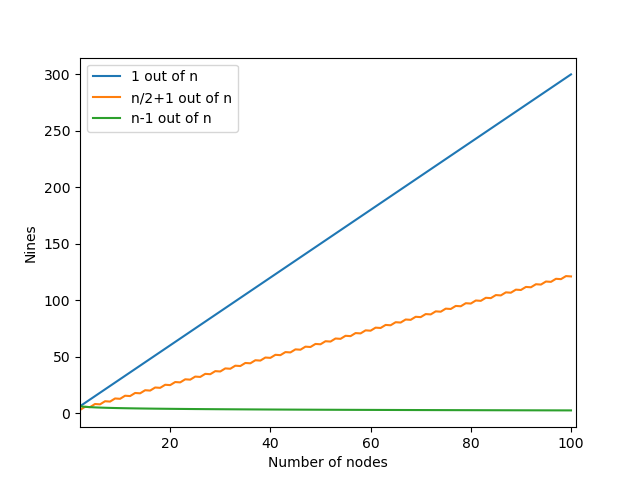
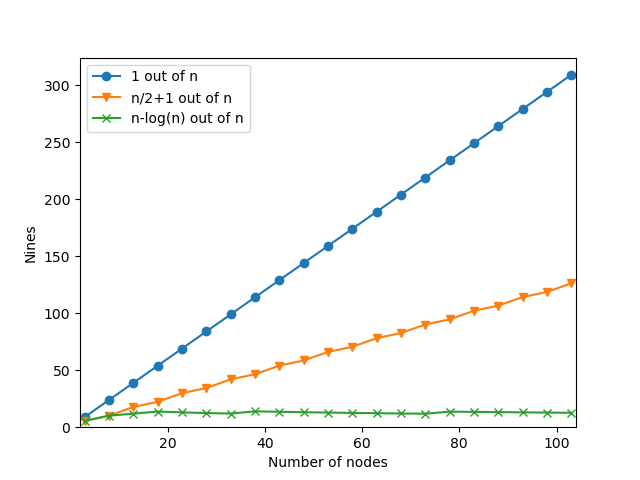
Linear n-log(n) line added

diff --git a/functions.py b/functions.py
@@ -7,8 +7,9 @@ import operator as op
 from functools import reduce
 
 
-MINN=500
-MAXN=700
+MINN=3
+MAXN=100
+STEP=5
 
 def nck(n, k): #Fast C implementation
     r = min(k, n-k)
@@ -22,6 +23,16 @@ def reliability(m,n,rate=0.001):
         return 1-binom.cdf(m-1,n,p)
     return f
 
+def availability(g,lam=0.001,mu=1.0):
+    r=lam/mu
+    def f(n):
+        good_sum=0.0
+        for i in range(0,n-g(n)+1):
+            good_sum+=pow(r,i)*nck(n,i)
+        good_sum/=pow(r+1,n)
+        return good_sum
+    return f
+
 def log_availability(g,lam=0.001,mu=1.0):
     r=lam/mu
     def f(n): #Calculates the steady-state availability of a g(n) out of n system, returns it in the nines (-log10(1-x)) metric
@@ -33,62 +44,20 @@ def log_availability(g,lam=0.001,mu=1.0):
         return -bad_sum
     return f
 
-def find_linear():
-    candidates=[]
-    def make_minus(i):
-        def f(n):
-            return max(math.floor(n/2)+1,n-i)
-        return f
-    def make_prop(c):
-        def f(n):
-            return max(math.floor(n/2)+1,math.ceil(c*n))
-        return f
-    def make_log():
-        def f(n):
-            return max(math.floor(n/2)+1,math.ceil(n-math.log(n)))
-        return f
-
-    for i in range(1,51):
-        #candidates.append([make_minus(i),f"n-{i} out of n"])
-        pass
-    for c in np.linspace(0.9,1.0,10)[:-1]:
-        #candidates.append([make_prop(c),f"{c}*n out of n"])
-        pass
-    candidates.append([make_log(),f"n-log(n) out of n"])
-
-    def eval(g):
-        f=log_availability(g[0])
-        v=np.array([f(x) for x in range(MINN,MAXN+1)])
-        diff_sum=np.sum(np.abs((v[1:]-v[:-1])))
-        return diff_sum
-    #most_linear =  reduce(lambda l1, l2: l1 if eval(l1)<=eval(l2) else l2, candidates)
-    #return most_linear
-    return candidates[-1]
-
-def availability(g,lam=0.001,mu=1.0):
-    r=lam/mu
-    def f(n):
-        good_sum=0.0
-        for i in range(0,n-g(n)+1):
-            good_sum+=pow(r,i)*nck(n,i)
-        good_sum/=pow(r+1,n)
-        return good_sum
-    return f
-
-if __name__=="__main__":
-    goal=log_availability(lambda x:2)(3)
-    print(goal)
-    def create():
-        def f():
-            pass
-        return f
-    for i in range(3,200):
-        curr=math.floor(i/2)+1
-        v=abs(log_availability(lambda x:math.floor(i/2)+1)(i)-goal)
+def find_linear(use_log=False):
+    goal=(log_availability if use_log else availability)(lambda x:1)(4)
+    a=[0]*(MAXN+STEP+1)
+    for i in range(MINN,MAXN+STEP+1):
+        a[i]=math.floor(i/2)+1
+        v=abs((log_availability if use_log else availability)(lambda x:math.floor(i/2)+1)(i)-goal)
         for j in range(math.floor(i/2)+1,i):
-            x=abs(log_availability(lambda x:j)(i)-goal)
+            x=abs((log_availability if use_log else availability)(lambda x:j)(i)-goal)
             if(x<v):
                 v=x
-                curr=j
-        print(f"{i-curr} out of {i}")
+                a[i]=j
+    def g(n):
+        return a[n]
+    return g
+
+
         

diff --git a/plots.py b/plots.py
@@ -4,13 +4,13 @@ def gen_y(f,l):
     return [f(y) for y in l]
 
 def create_reliability_plot():
-    x = np.linspace(0.0, 5000.0, 1000)
+    x = np.arange(0, 5000, 200)
     plt.figure(1)
-    plt.plot(x, gen_y(reliability(1,1),x),label='1 out of 1')
-    plt.plot(x, gen_y(reliability(1,3),x),label='1 out of 3') 
-    plt.plot(x, gen_y(reliability(1,5),x),label='1 out of 5') 
-    plt.plot(x, gen_y(reliability(2,3),x),label='2 out of 3') 
-    plt.plot(x, gen_y(reliability(3,5),x),label='3 out of 5')
+    plt.plot(x, gen_y(reliability(1,1),x),label='1 out of 1',marker="o")
+    plt.plot(x, gen_y(reliability(1,3),x),label='1 out of 3',marker="v") 
+    plt.plot(x, gen_y(reliability(1,5),x),label='1 out of 5',marker="x") 
+    plt.plot(x, gen_y(reliability(2,3),x),label='2 out of 3',marker="s") 
+    plt.plot(x, gen_y(reliability(3,5),x),label='3 out of 5',marker="*")
     plt.ylabel("Reliability")
     plt.xlabel("Time (h)")
     plt.legend()
@@ -18,34 +18,24 @@ def create_reliability_plot():
     #plt.show() 
 
 def create_availability_plot():
-    x=np.arange(MINN,MAXN+1)
+    x=np.arange(MINN,MAXN+STEP,STEP)
     plt.figure(2)
-    #plt.plot(x, gen_y(log_availability(lambda n:1),x),label='1 out of n')
-    #plt.plot(x, gen_y(log_availability(lambda n:math.floor(n/2)+1),x),label='n/2+1 out of n')
-    plt.plot(x, gen_y(log_availability(lambda n:n),x),label='n out of n')
-    fun,lab=find_linear()
-    plt.plot(x, gen_y(log_availability(fun),x),label=lab)
-    plt.xlim([MINN,MAXN+1])
+    plt.plot(x, gen_y(log_availability(lambda n:1),x),label='1 out of n',marker="o")
+    plt.plot(x, gen_y(log_availability(lambda n:math.floor(n/2)+1),x),label='n/2+1 out of n',marker="v")
+    plt.plot(x, gen_y(log_availability(find_linear()),x),label='n-log(n) out of n',marker="x")
+    #plt.plot(x, gen_y(log_availability(lambda n:n),x),label='n out of n',marker="s")
+    #for (m,n) in [(1,1),(1,3),(1,5),(2,3),(3,5)]:
+    #    plt.scatter(n,log_availability(lambda _:m)(n))
+    plt.xlim([np.min(x)-1,np.max(x)+1])
+    plt.ylim(bottom=0)
     plt.ylabel("Nines")
     plt.xlabel("Number of nodes")
     plt.legend()
-    #plt.savefig('Availability.png')
+    plt.savefig('Availability.png')
     plt.show() 
 
 if __name__=="__main__":
     print("Started\n")
-    #create_reliability_plot()
+    create_reliability_plot()
     create_availability_plot()
     print("Done\n")
-
-
-
-
-'''def gen_exp_y(f,l):
-    return np.exp([f(y) for y in l])
-
-def gen_large_y(f,l):
-    return [100*f(y) for y in l]
-
-def gen_log10_y(f,l):
-    return np.negative(np.log10([1-f(y) for y in l]))'''
